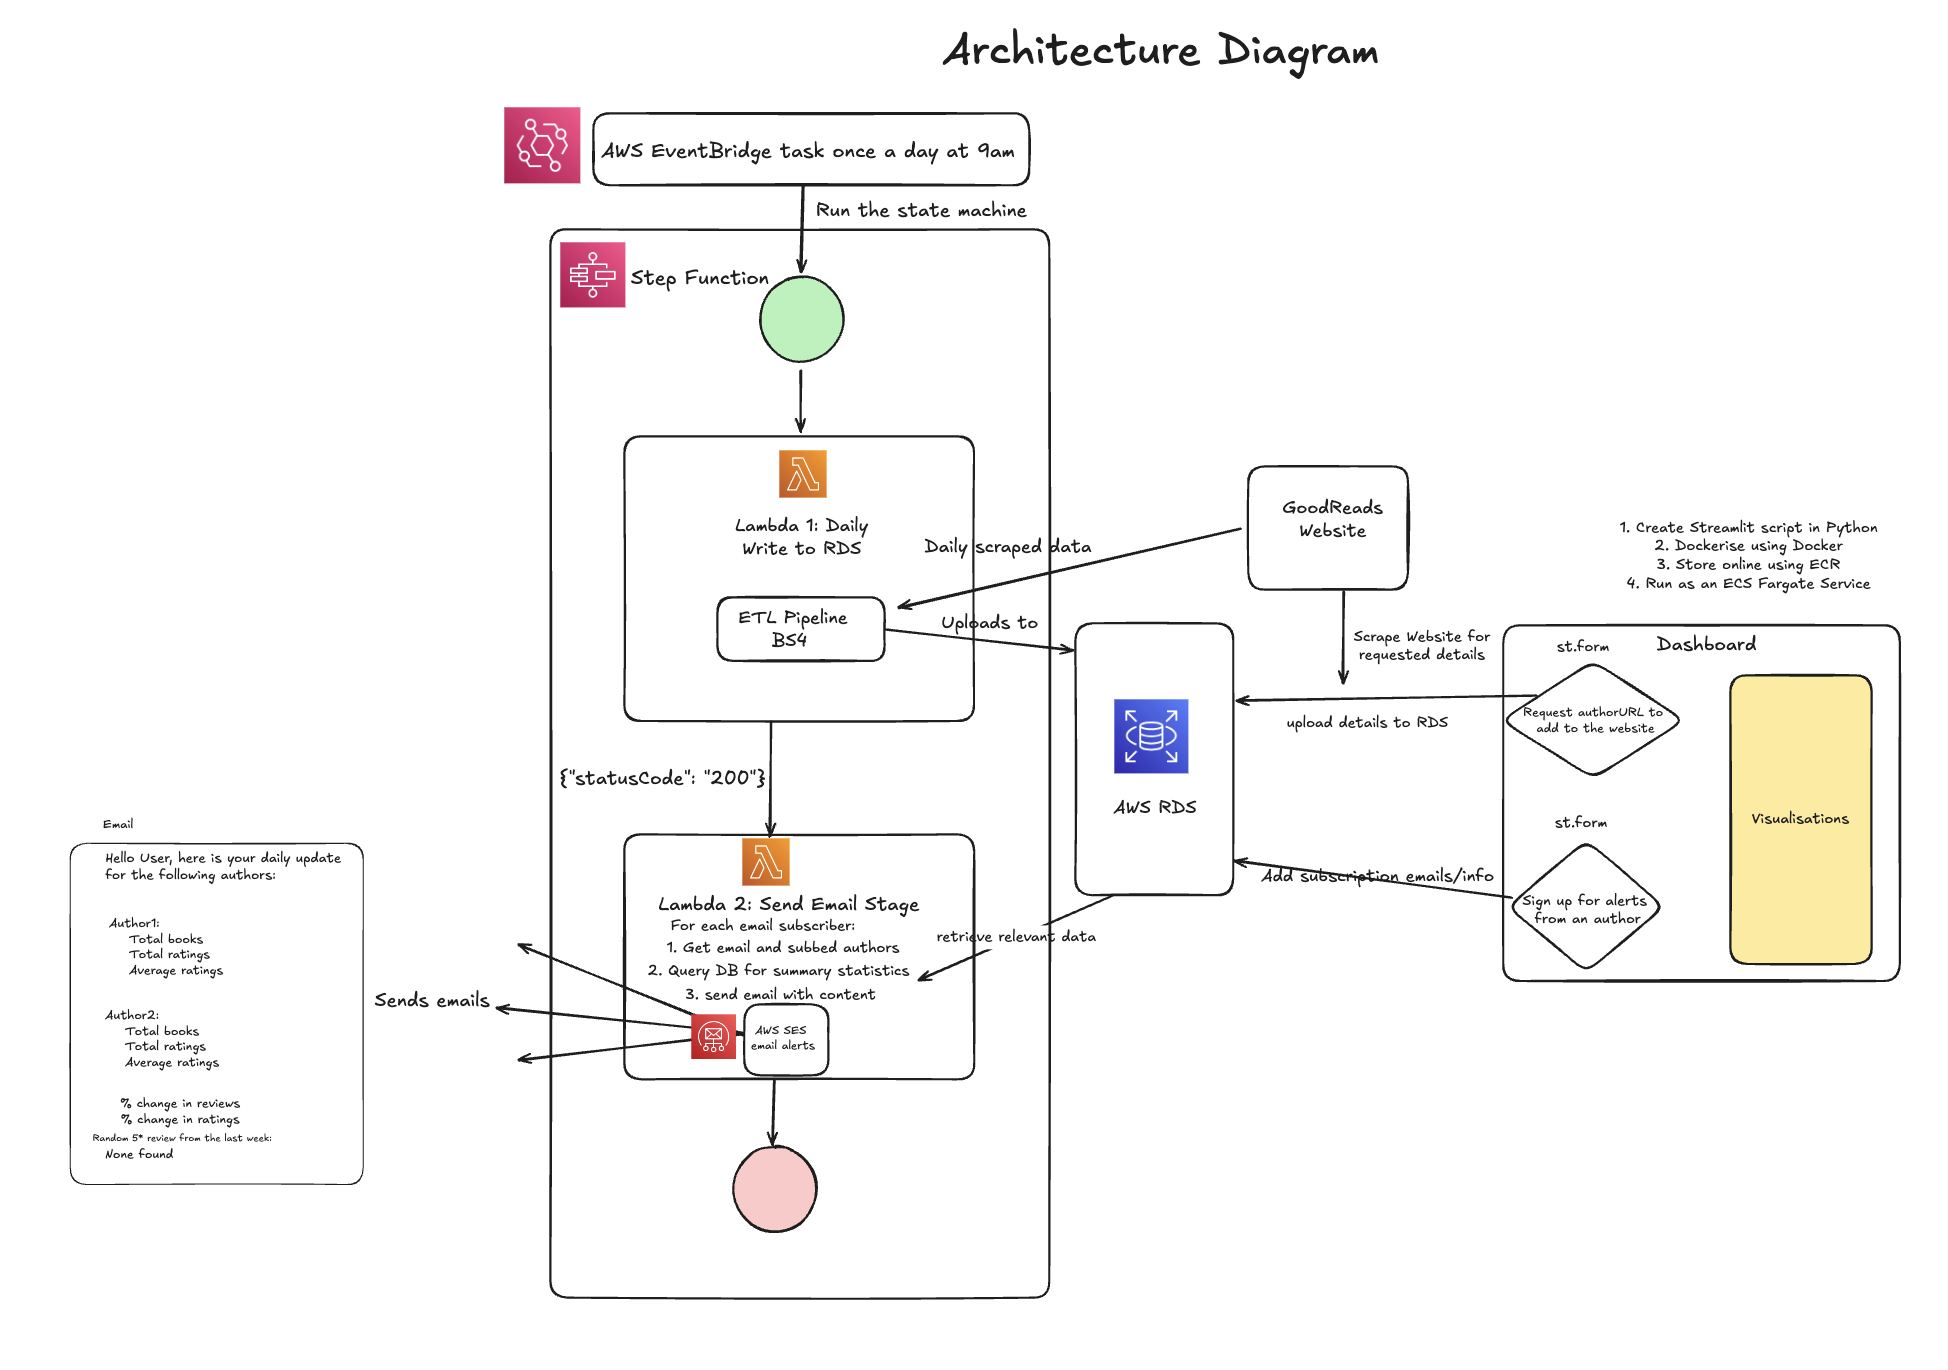
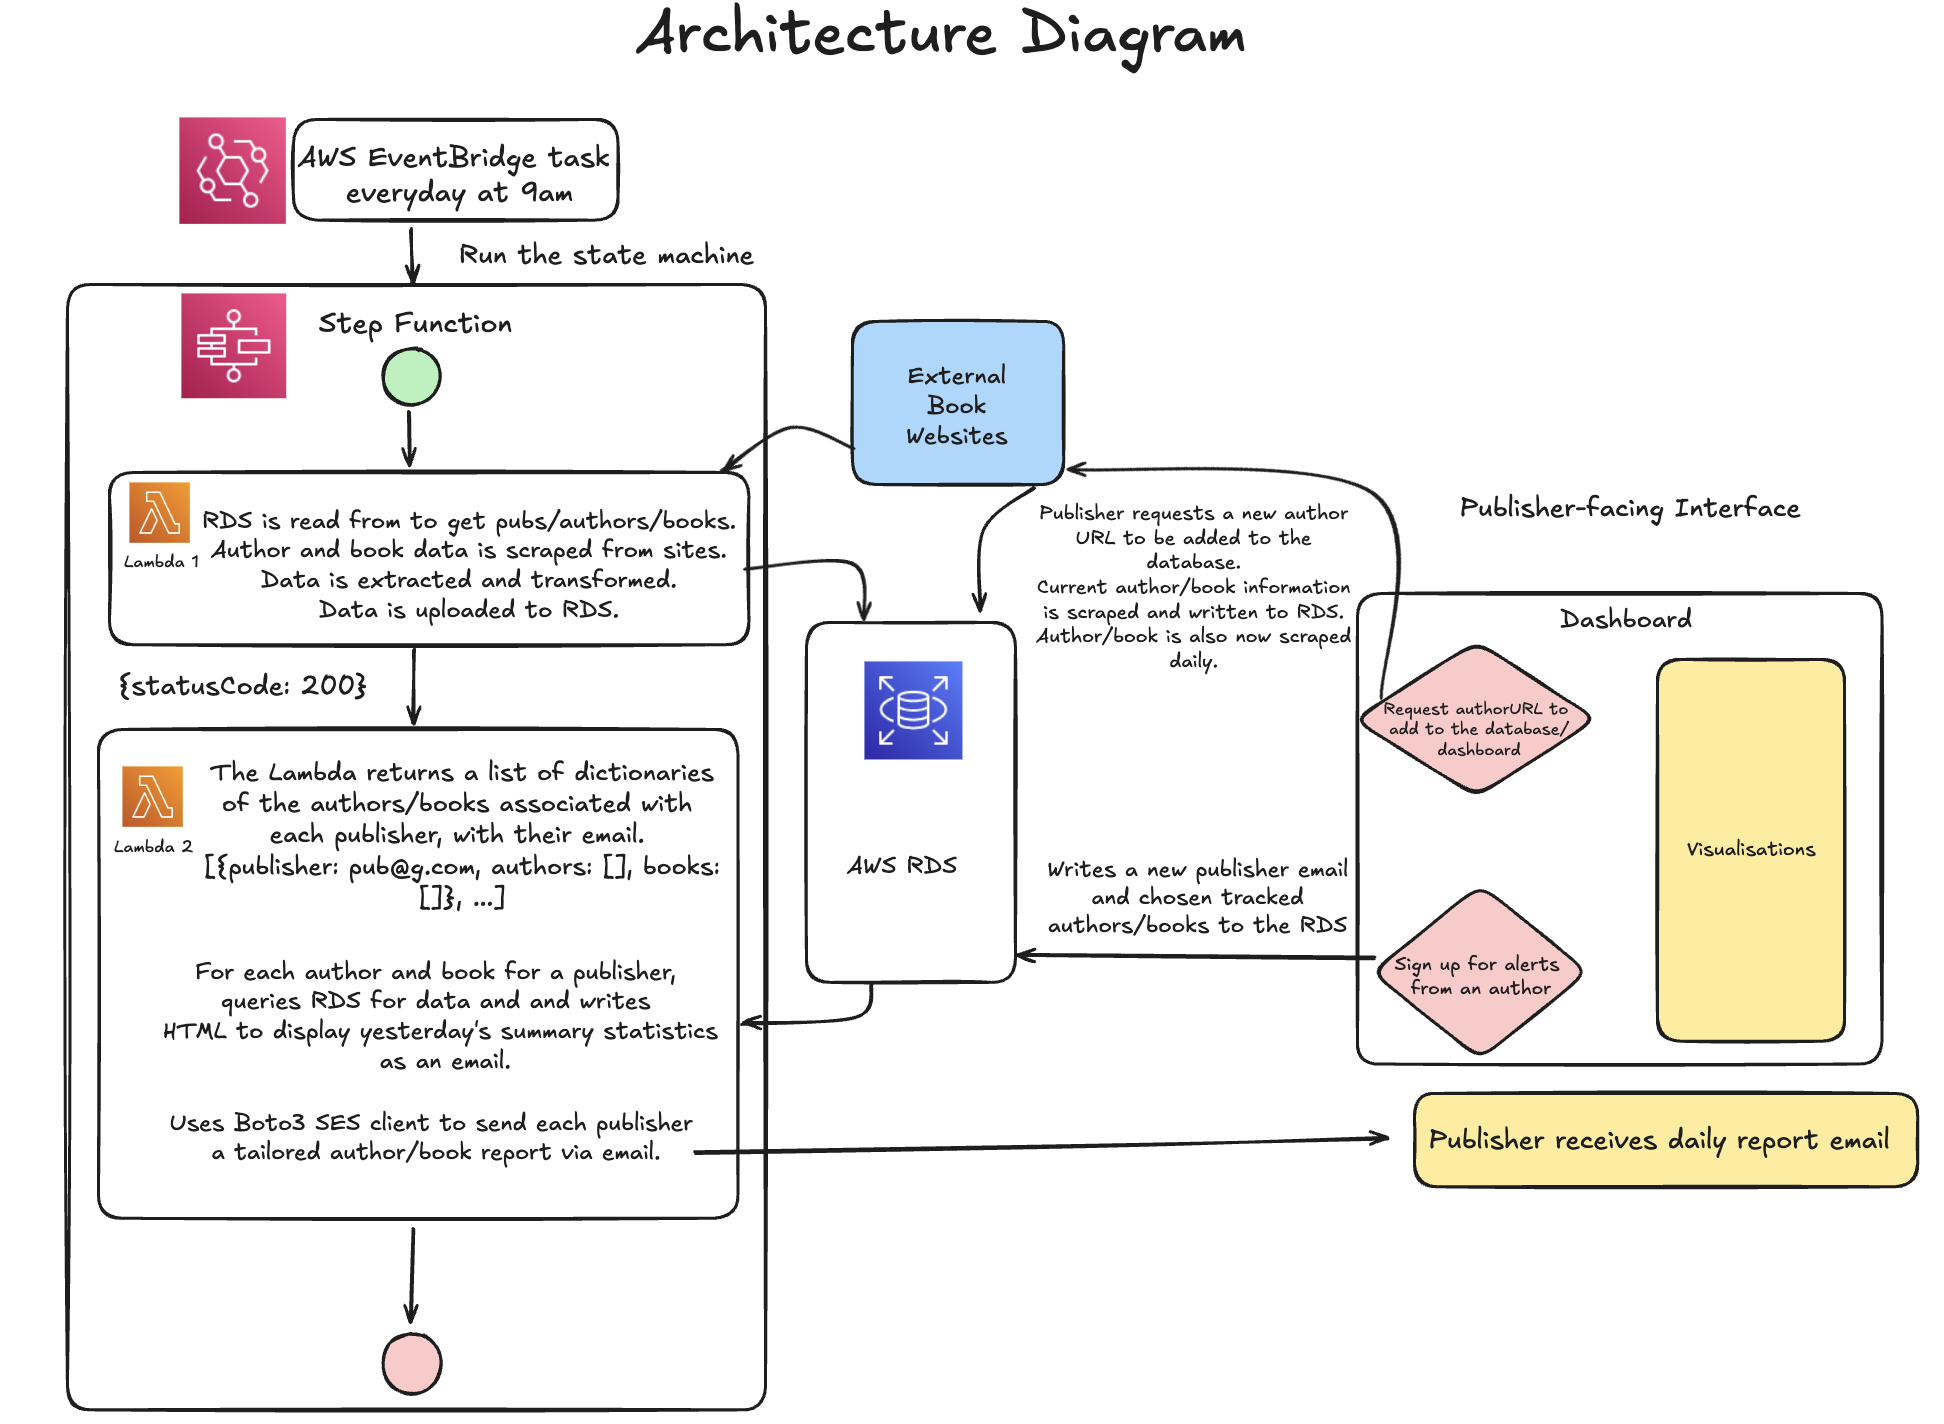
added images to assets and readmes

Changed region(s): [[0.0309, 0.0613, 0.9877, 0.9504], [0.3395, 0.0, 0.7099, 0.0613], [0.0309, 0.9197, 0.4012, 1.0]]

diff --git a/dashboard/dashboard.py b/dashboard/dashboard.py
@@ -1,0 +1,10 @@
+'''A script that creates a Streamlit dashboard using book data from the RDS'''
+import os
+from datetime import datetime, timedelta
+from dotenv import load_dotenv
+import pandas as pd
+import streamlit as st
+import altair as alt
+import psycopg2
+
+# Streamlit code here

diff --git a/README.md b/README.md
@@ -1,1 +1,14 @@
-# book-project
+# Book Tracker Project
+
+A project for scraping and visualising data on author and book popularity from a range of websites, designed with publishers in mind.
+
+Data on author and book popularity, including ratings and reviews, are collected once daily. This data is visualised on an interactive dashboard for publishers. Here, new authors can be requested to be tracked, and daily email reports can be requested, containing summary statistics for chosen authors.
+
+Additional information on the project can be found [here](https://docs.google.com/document/d/1ihmuPt68K87EajOhWezTdoZqu7_oyWqp1QZHaR0cIeA/edit?tab=t.0).
+
+---
+
+
+# Architecture Diagram
+
+![Architecture Diagram](assets/architecture_diagram.png)

diff --git a/dashboard/README.md b/dashboard/README.md
@@ -1,1 +1,22 @@
-# Folder for the dashboard and related scripts
+# Folder for dashboard / visualisations
+This folder contains a Streamlit dashboard that loads data from the RDS using psycopg2.
+To run locally: `streamlit run dashboard.py`.
+
+# Requirements
+
+To install requirements run:
+`pip install -r requirements.txt`
+
+A .env file must contain these variables:
+
+```
+DB_HOST=
+DB_NAME=
+DB_USERNAME=
+DB_PASSWORD=
+DB_PORT=
+```
+
+
+Dashboard Wireframe:
+![Dashboard Wireframe](../assets/dashboard_wireframe.png)
